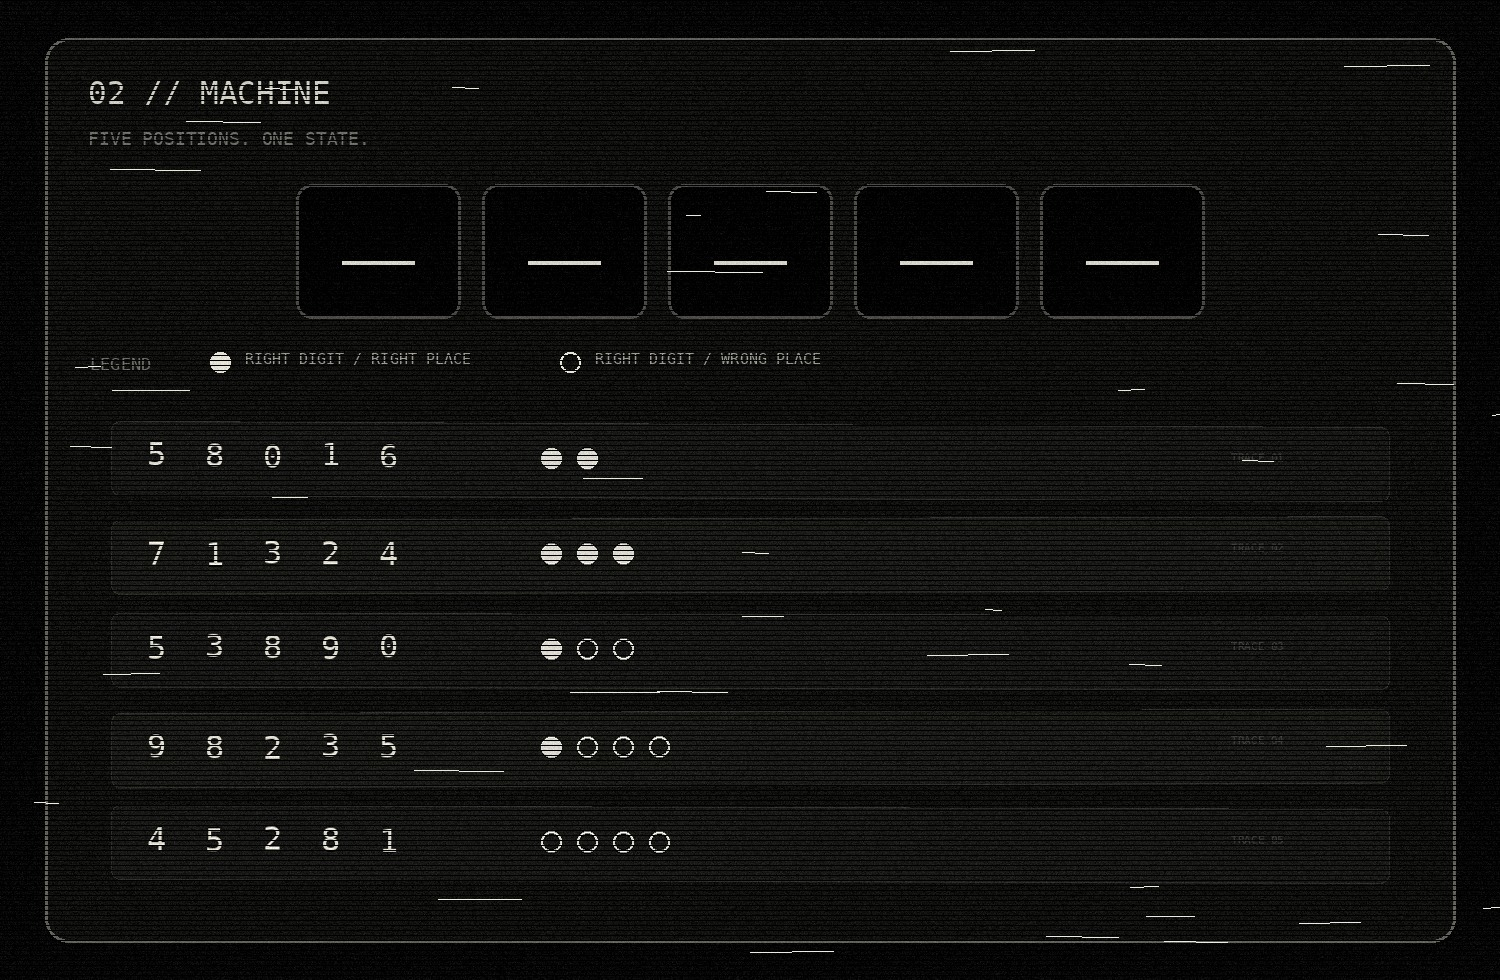
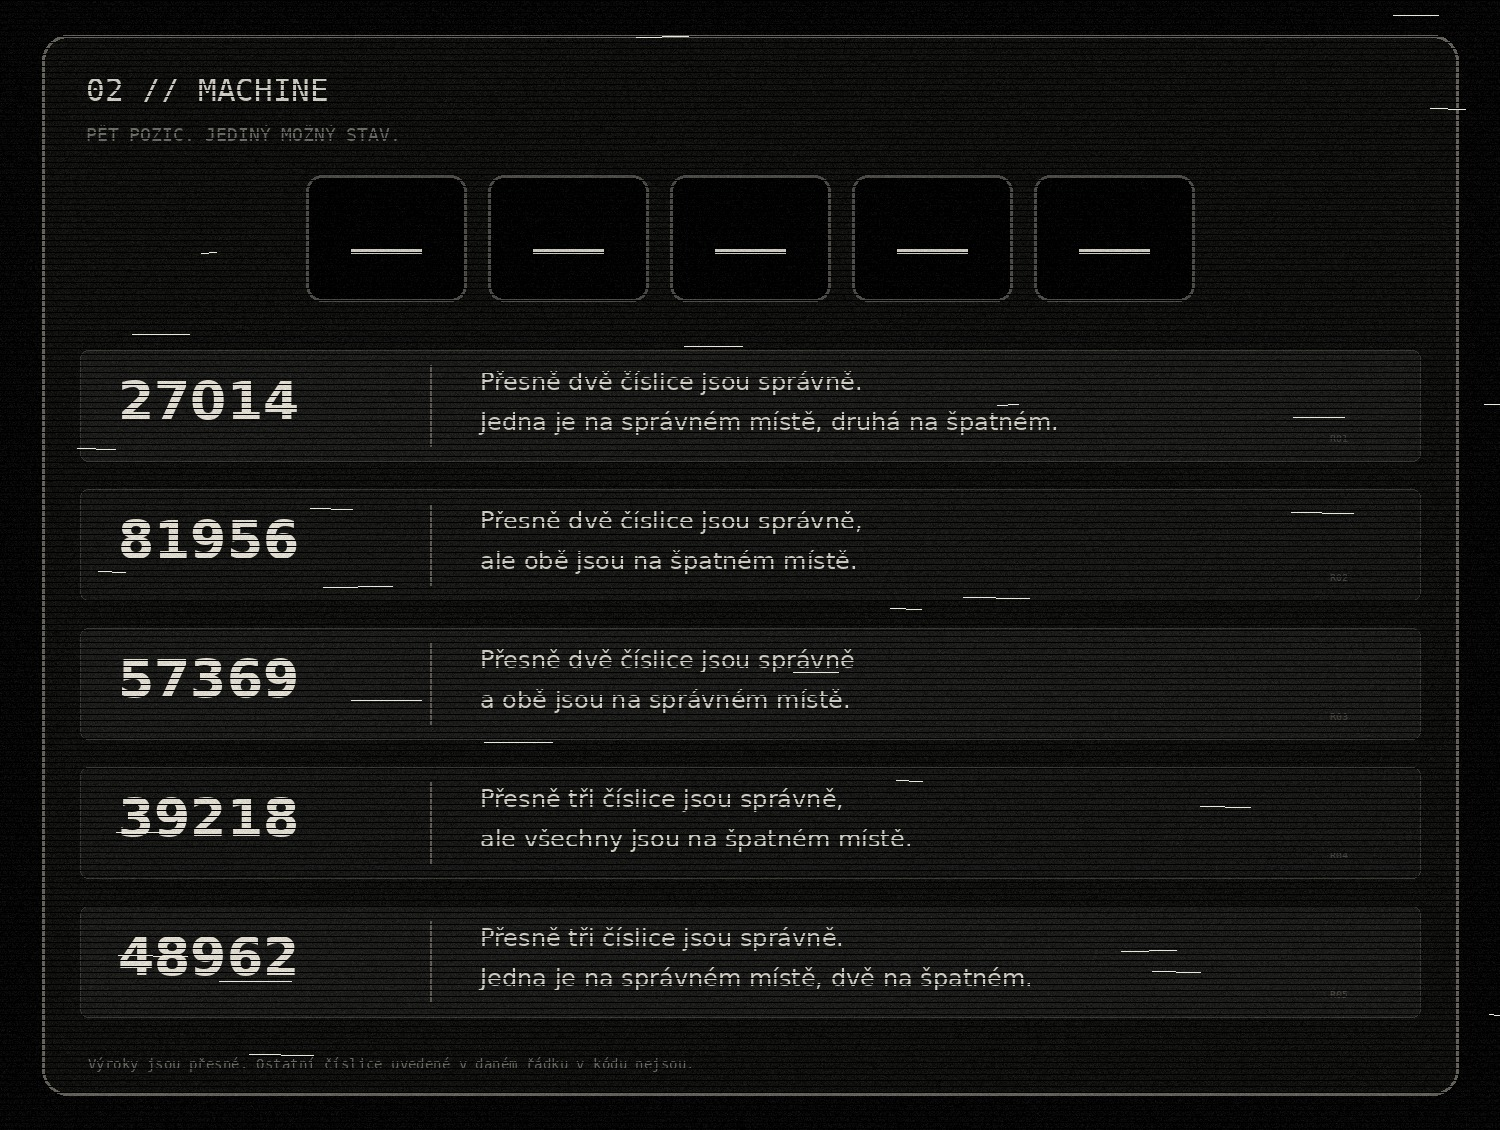
verze 2

diff --git a/absent/index.html b/absent/index.html
@@ -28,13 +28,13 @@
 
 <section class="page-head">
   <div class="n">03 // POSITION</div><h2>ABSENT</h2>
-  <p>Jeden z nich chybí. A ten má klíč. Použij stopy a vyškrtej nemožné pozice; poslední zbývající souřadnice je výsledek tohoto runu.</p>
+  <p>Jeden z nich chybí. A ten má klíč. Najdi jeho poslední možnou pozici. Kliknutím můžeš jednotlivá pole vyškrtnout.</p>
   <a class="back" href="../">← BACK</a>
 </section>
 <section class="absent-layout">
   <div class="panel grid-scroll">
-    <div class="absent-grid"><div class="axis"></div><div class="axis">A</div><div class="axis">B</div><div class="axis">C</div><div class="axis">D</div><div class="axis">E</div><div class="axis">F</div><div class="axis">1</div><button class="cell" type="button" aria-label="Pozice A1">A1</button><button class="cell" type="button" aria-label="Pozice B1">B1</button><button class="cell" type="button" aria-label="Pozice C1">C1</button><button class="cell" type="button" aria-label="Pozice D1">D1</button><button class="cell" type="button" aria-label="Pozice E1">E1</button><button class="cell" type="button" aria-label="Pozice F1">F1</button><div class="axis">2</div><button class="cell" type="button" aria-label="Pozice A2">A2</button><button class="cell" type="button" aria-label="Pozice B2">B2</button><button class="cell" type="button" aria-label="Pozice C2">C2</button><button class="cell" type="button" aria-label="Pozice D2">D2</button><button class="cell" type="button" aria-label="Pozice E2">E2</button><button class="cell" type="button" aria-label="Pozice F2">F2</button><div class="axis">3</div><button class="cell" type="button" aria-label="Pozice A3">A3</button><button class="cell" type="button" aria-label="Pozice B3">B3</button><button class="cell" type="button" aria-label="Pozice C3">C3</button><button class="cell" type="button" aria-label="Pozice D3">D3</button><button class="cell" type="button" aria-label="Pozice E3">E3</button><button class="cell" type="button" aria-label="Pozice F3">F3</button><div class="axis">4</div><button class="cell" type="button" aria-label="Pozice A4">A4</button><button class="cell" type="button" aria-label="Pozice B4">B4</button><button class="cell" type="button" aria-label="Pozice C4">C4</button><button class="cell" type="button" aria-label="Pozice D4">D4</button><button class="cell" type="button" aria-label="Pozice E4">E4</button><button class="cell" type="button" aria-label="Pozice F4">F4</button><div class="axis">5</div><button class="cell" type="button" aria-label="Pozice A5">A5</button><button class="cell" type="button" aria-label="Pozice B5">B5</button><button class="cell" type="button" aria-label="Pozice C5">C5</button><button class="cell" type="button" aria-label="Pozice D5">D5</button><button class="cell" type="button" aria-label="Pozice E5">E5</button><button class="cell" type="button" aria-label="Pozice F5">F5</button><div class="axis">6</div><button class="cell" type="button" aria-label="Pozice A6">A6</button><button class="cell" type="button" aria-label="Pozice B6">B6</button><button class="cell" type="button" aria-label="Pozice C6">C6</button><button class="cell" type="button" aria-label="Pozice D6">D6</button><button class="cell" type="button" aria-label="Pozice E6">E6</button><button class="cell" type="button" aria-label="Pozice F6">F6</button></div>
-    <div class="help">Kliknutím můžeš pole ručně škrtat. Web správnost nekontroluje.</div>
+    <div class="absent-grid"><div class="axis"></div><div class="axis">A</div><div class="axis">B</div><div class="axis">C</div><div class="axis">D</div><div class="axis">E</div><div class="axis">F</div><div class="axis">1</div><button class="cell" type="button" aria-label="Pozice A1"><span aria-hidden="true">•</span></button><button class="cell" type="button" aria-label="Pozice B1"><span aria-hidden="true">•</span></button><button class="cell" type="button" aria-label="Pozice C1"><span aria-hidden="true">•</span></button><button class="cell" type="button" aria-label="Pozice D1"><span aria-hidden="true">•</span></button><button class="cell" type="button" aria-label="Pozice E1"><span aria-hidden="true">•</span></button><button class="cell" type="button" aria-label="Pozice F1"><span aria-hidden="true">•</span></button><div class="axis">2</div><button class="cell" type="button" aria-label="Pozice A2"><span aria-hidden="true">•</span></button><button class="cell" type="button" aria-label="Pozice B2"><span aria-hidden="true">•</span></button><button class="cell" type="button" aria-label="Pozice C2"><span aria-hidden="true">•</span></button><button class="cell" type="button" aria-label="Pozice D2"><span aria-hidden="true">•</span></button><button class="cell" type="button" aria-label="Pozice E2"><span aria-hidden="true">•</span></button><button class="cell" type="button" aria-label="Pozice F2"><span aria-hidden="true">•</span></button><div class="axis">3</div><button class="cell" type="button" aria-label="Pozice A3"><span aria-hidden="true">•</span></button><button class="cell" type="button" aria-label="Pozice B3"><span aria-hidden="true">•</span></button><button class="cell" type="button" aria-label="Pozice C3"><span aria-hidden="true">•</span></button><button class="cell" type="button" aria-label="Pozice D3"><span aria-hidden="true">•</span></button><button class="cell" type="button" aria-label="Pozice E3"><span aria-hidden="true">•</span></button><button class="cell" type="button" aria-label="Pozice F3"><span aria-hidden="true">•</span></button><div class="axis">4</div><button class="cell" type="button" aria-label="Pozice A4"><span aria-hidden="true">•</span></button><button class="cell" type="button" aria-label="Pozice B4"><span aria-hidden="true">•</span></button><button class="cell" type="button" aria-label="Pozice C4"><span aria-hidden="true">•</span></button><button class="cell" type="button" aria-label="Pozice D4"><span aria-hidden="true">•</span></button><button class="cell" type="button" aria-label="Pozice E4"><span aria-hidden="true">•</span></button><button class="cell" type="button" aria-label="Pozice F4"><span aria-hidden="true">•</span></button><div class="axis">5</div><button class="cell" type="button" aria-label="Pozice A5"><span aria-hidden="true">•</span></button><button class="cell" type="button" aria-label="Pozice B5"><span aria-hidden="true">•</span></button><button class="cell" type="button" aria-label="Pozice C5"><span aria-hidden="true">•</span></button><button class="cell" type="button" aria-label="Pozice D5"><span aria-hidden="true">•</span></button><button class="cell" type="button" aria-label="Pozice E5"><span aria-hidden="true">•</span></button><button class="cell" type="button" aria-label="Pozice F5"><span aria-hidden="true">•</span></button><div class="axis">6</div><button class="cell" type="button" aria-label="Pozice A6"><span aria-hidden="true">•</span></button><button class="cell" type="button" aria-label="Pozice B6"><span aria-hidden="true">•</span></button><button class="cell" type="button" aria-label="Pozice C6"><span aria-hidden="true">•</span></button><button class="cell" type="button" aria-label="Pozice D6"><span aria-hidden="true">•</span></button><button class="cell" type="button" aria-label="Pozice E6"><span aria-hidden="true">•</span></button><button class="cell" type="button" aria-label="Pozice F6"><span aria-hidden="true">•</span></button></div>
+    <div class="help">Kliknutím můžeš pole ručně škrtat. Souřadnici čti z horního a levého okraje. Web správnost nekontroluje.</div>
   </div>
   <div class="panel">
     <a class="zoom-link" href="../assets/record-03.jpg" target="_blank" rel="noopener"><img src="../assets/record-03.jpg" alt="Poškozený archivní záznam."></a><div class="zoom-hint">tap / click to inspect full resolution</div>

diff --git a/machine/index.html b/machine/index.html
@@ -28,7 +28,7 @@
 
 <section class="page-head">
   <div class="n">02 // LOGIC</div><h2>MACHINE</h2>
-  <p>Pět pozic. Každý řádek je měření stejného zámku. Plný bod znamená správnou číslici na správném místě, prázdný bod správnou číslici na špatném místě. Neoznačené číslice v daném řádku v kódu nejsou.</p>
+  <p>Pět pozic. Každý řádek je přesná informace o stejném kódu. Teprve všechny stopy dohromady nechají jedinou možnost.</p>
   <a class="back" href="../">← BACK</a>
 </section>
 <section class="panel">

diff --git a/memory/index.html b/memory/index.html
@@ -28,7 +28,7 @@
 
 <section class="page-head">
   <div class="n">04 // META</div><h2>MEMORY</h2>
-  <p>Tady nezískáš jen poslední část. Tady zjistíš, v jakém pořadí patří všechny čtyři části za sebe.</p>
+  <p>Tady získáš poslední část i pořadí všech čtyř výsledků. Text odkazuje na runy, které už znáš.</p>
   <a class="back" href="../">← BACK</a>
 </section>
 <section class="panel">

diff --git a/assets/styles.css b/assets/styles.css
@@ -240,3 +240,11 @@ img{max-width:100%}
     overflow:visible;
   }
 }
+
+.cell>span{
+  font-size:15px;
+  color:#5f5d57;
+  transition:.15s ease;
+}
+.cell:hover>span{color:#b3b0a7}
+.cell.crossed>span{opacity:.12}
